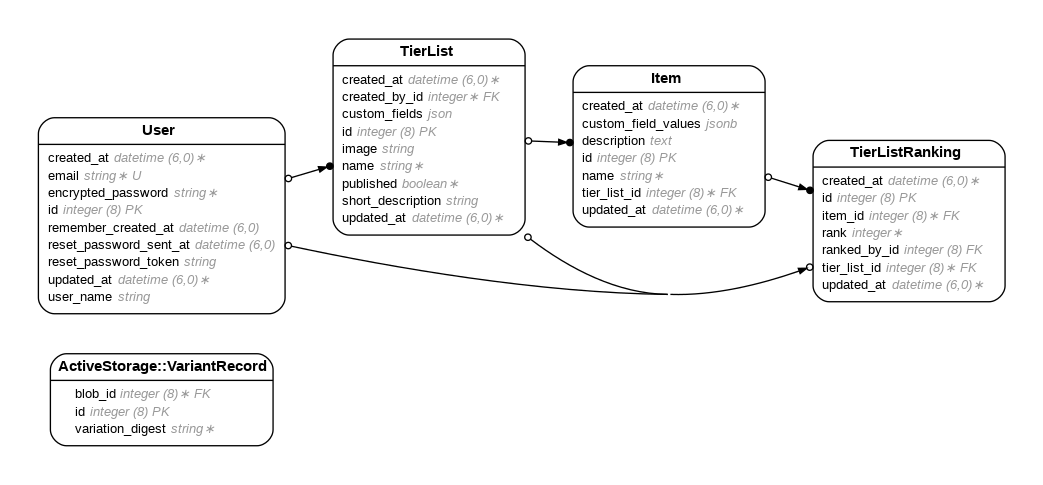
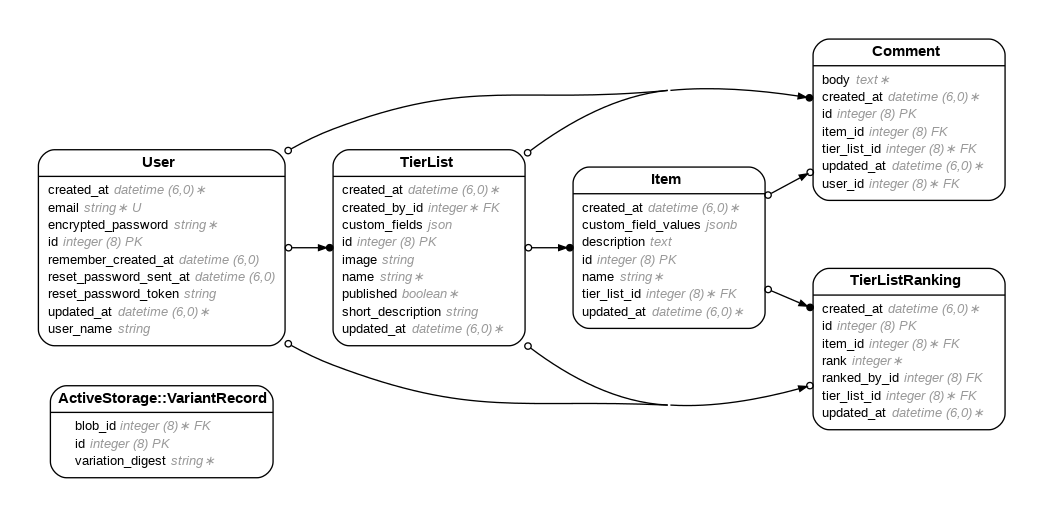
Added initial logic for the comment section

diff --git a/app/controllers/tier_lists_controller.rb b/app/controllers/tier_lists_controller.rb
@@ -27,97 +27,96 @@ class TierListsController < ApplicationController
     # Define the current item (e.g., the first ranked item for the creator)
     @current_item = @creator_ranked_items.first
 
-      # Set up Ransack for filtering
-  @q = @tier_list.items.ransack(params[:q])
-  Rails.logger.debug "Filter Params: #{params[:q].inspect}"
-  @filtered_items = @q.result # Filtered items based on query
-  Rails.logger.debug "Filtered Items: #{@filtered_items.pluck(:id)}"
-  @field_types = @tier_list.custom_fields.map { |field| [field[:name], field[:data_type]] }
-  Rails.logger.debug "Custom Fields: #{@tier_list.custom_fields.inspect}"
+    # Set up Ransack for filtering
+    @q = @tier_list.items.ransack(params[:q])
+    Rails.logger.debug "Filter Params: #{params[:q].inspect}"
+    @filtered_items = @q.result # Filtered items based on query
+    Rails.logger.debug "Filtered Items: #{@filtered_items.pluck(:id)}"
+    @field_types = @tier_list.custom_fields.map { |field| [field[:name], field[:data_type]] }
+    Rails.logger.debug "Custom Fields: #{@tier_list.custom_fields.inspect}"
 
-  # Determine which ranked items to fetch
-  if @filtered_items.present?
-    # Use filtered items if filters are applied
-    @filtered_ranked_items = generate_filtered_creator_ranked_items
-    Rails.logger.debug "Filtered Ranked Items: #{@filtered_ranked_items}"
-    @ranked_items = @filtered_ranked_items # Display only filtered ranked items
-  else
-    # Use all creator-ranked items if no filters are applied
-    @filtered_ranked_items = []
-    @ranked_items = generate_creator_ranked_items
-    Rails.logger.debug "Unfiltered Ranked Items: #{@ranked_items}"
-  end
+    # Determine which ranked items to fetch
+    if @filtered_items.present?
+      # Use filtered items if filters are applied
+      @filtered_ranked_items = generate_filtered_creator_ranked_items
+      Rails.logger.debug "Filtered Ranked Items: #{@filtered_ranked_items}"
+      @ranked_items = @filtered_ranked_items # Display only filtered ranked items
+    else
+      # Use all creator-ranked items if no filters are applied
+      @filtered_ranked_items = []
+      @ranked_items = generate_creator_ranked_items
+      Rails.logger.debug "Unfiltered Ranked Items: #{@ranked_items}"
+    end
 
     # Pass the rank-to-tier map to the view
     @rank_to_tier_map = RANK_TO_TIER_MAP
 
-      # Prepare unique values for all string custom fields
-  @string_field_options = prepare_string_field_options(@tier_list)
+    # Prepare unique values for all string custom fields
+    @string_field_options = prepare_string_field_options(@tier_list)
 
     render "tier_list_creator/creator_view"
   end
 
+  def group_list
+    @tier_list = TierList.find(params[:id])
 
-    def group_list
-      @tier_list = TierList.find(params[:id])
+    # Load comments and associated users
+    @comments = @tier_list.comments.includes(:user) 
 
-          # Count unique users who ranked the tier list
+    # Count unique users who ranked the tier list
     @user_count = @tier_list.tier_list_rankings.distinct.count(:ranked_by_id)
-    
-      # Count unique users who ranked the tier list
-      @user_count = @tier_list.tier_list_rankings.distinct.count(:ranked_by_id)
-    
-      # Fetch items with their average ranking
-      @group_ranked_items = @tier_list.items.includes(:tier_list_rankings).map do |item|
-        rankings = item.tier_list_rankings.pluck(:rank)
-        next if rankings.empty? # Skip items with no rankings
-    
-        average_rank = rankings.sum.to_f / rankings.size
-        {
-          id: item.id,
-          rank: RANK_TO_TIER_MAP[average_rank.round] || "Unranked",
-          average_rank: average_rank.round(2),
-          name: item.name || "Unknown Item",
-          image_url: item.image&.attached? ? url_for(item.image) : view_context.asset_path("egg.png"),
-          custom_fields: item.custom_field_values || {}
-        }
-      end.compact
-    
-      # Define the current item from the ActiveRecord `@tier_list.items`
-      @current_item = @filtered_items.present? ? @filtered_items.first : @tier_list.items.first
-    
-      # Set up Ransack for filtering
-      @q = @tier_list.items.ransack(params[:q])
-      Rails.logger.debug "Filter Params: #{params[:q].inspect}"
-      @filtered_items = @q.result # Filtered items based on query
-      Rails.logger.debug "Filtered Items: #{@filtered_items.pluck(:id)}"
-      @field_types = @tier_list.custom_fields.map { |field| [field[:name], field[:data_type]] }
-      Rails.logger.debug "Custom Fields: #{@tier_list.custom_fields.inspect}"
-    
-      # Determine which ranked items to fetch
-      if @filtered_items.present?
-        # Use filtered items if filters are applied
-        @filtered_ranked_items = generate_filtered_group_ranked_items
-        Rails.logger.debug "Filtered Ranked Items: #{@filtered_ranked_items}"
-        @ranked_items = @filtered_ranked_items # Display only filtered ranked items
-      else
-        # Use all group-ranked items if no filters are applied
-        @filtered_ranked_items = []
-        @ranked_items = @group_ranked_items
-        Rails.logger.debug "Unfiltered Ranked Items: #{@ranked_items}"
-      end
-    
-      # Pass the rank-to-tier map to the view
-      @rank_to_tier_map = RANK_TO_TIER_MAP
 
-        # Prepare unique values for all string custom fields
-  @string_field_options = prepare_string_field_options(@tier_list)
-    
-      render "tier_list_group/group_view"
+    # Count unique users who ranked the tier list
+    @user_count = @tier_list.tier_list_rankings.distinct.count(:ranked_by_id)
+
+    # Fetch items with their average ranking
+    @group_ranked_items = @tier_list.items.includes(:tier_list_rankings).map do |item|
+      rankings = item.tier_list_rankings.pluck(:rank)
+      next if rankings.empty? # Skip items with no rankings
+
+      average_rank = rankings.sum.to_f / rankings.size
+      {
+        id: item.id,
+        rank: RANK_TO_TIER_MAP[average_rank.round] || "Unranked",
+        average_rank: average_rank.round(2),
+        name: item.name || "Unknown Item",
+        image_url: item.image&.attached? ? url_for(item.image) : view_context.asset_path("egg.png"),
+        custom_fields: item.custom_field_values || {},
+      }
+    end.compact
+
+    # Define the current item from the ActiveRecord `@tier_list.items`
+    @current_item = @filtered_items.present? ? @filtered_items.first : @tier_list.items.first
+
+    # Set up Ransack for filtering
+    @q = @tier_list.items.ransack(params[:q])
+    Rails.logger.debug "Filter Params: #{params[:q].inspect}"
+    @filtered_items = @q.result # Filtered items based on query
+    Rails.logger.debug "Filtered Items: #{@filtered_items.pluck(:id)}"
+    @field_types = @tier_list.custom_fields.map { |field| [field[:name], field[:data_type]] }
+    Rails.logger.debug "Custom Fields: #{@tier_list.custom_fields.inspect}"
+
+    # Determine which ranked items to fetch
+    if @filtered_items.present?
+      # Use filtered items if filters are applied
+      @filtered_ranked_items = generate_filtered_group_ranked_items
+      Rails.logger.debug "Filtered Ranked Items: #{@filtered_ranked_items}"
+      @ranked_items = @filtered_ranked_items # Display only filtered ranked items
+    else
+      # Use all group-ranked items if no filters are applied
+      @filtered_ranked_items = []
+      @ranked_items = @group_ranked_items
+      Rails.logger.debug "Unfiltered Ranked Items: #{@ranked_items}"
     end
-    
-    
-    
+
+    # Pass the rank-to-tier map to the view
+    @rank_to_tier_map = RANK_TO_TIER_MAP
+
+    # Prepare unique values for all string custom fields
+    @string_field_options = prepare_string_field_options(@tier_list)
+
+    render "tier_list_group/group_view"
+  end
 
   def rank
     @tier_list = TierList.find(params[:id])
@@ -317,8 +316,6 @@ class TierListsController < ApplicationController
     end
   end
 
-
-
   def generate_filtered_creator_ranked_items
     @filtered_items.map do |item|
       Rails.logger.debug "Generating Filtered Creator Ranked Items for: #{@filtered_items.pluck(:id)}"
@@ -340,8 +337,6 @@ class TierListsController < ApplicationController
       group_data if group_data
     end.compact
   end
-
-
 end
 
 # Collect unique options for all string custom fields in the tier list

diff --git a/db/schema.rb b/db/schema.rb
@@ -10,7 +10,7 @@
 #
 # It's strongly recommended that you check this file into your version control system.
 
-ActiveRecord::Schema[7.1].define(version: 2024_12_03_154642) do
+ActiveRecord::Schema[7.1].define(version: 2024_12_08_194806) do
   # These are extensions that must be enabled in order to support this database
   enable_extension "plpgsql"
 
@@ -40,6 +40,18 @@ ActiveRecord::Schema[7.1].define(version: 2024_12_03_154642) do
     t.bigint "blob_id", null: false
     t.string "variation_digest", null: false
     t.index ["blob_id", "variation_digest"], name: "index_active_storage_variant_records_uniqueness", unique: true
+  end
+
+  create_table "comments", force: :cascade do |t|
+    t.bigint "user_id", null: false
+    t.bigint "tier_list_id", null: false
+    t.bigint "item_id"
+    t.text "body", null: false
+    t.datetime "created_at", null: false
+    t.datetime "updated_at", null: false
+    t.index ["item_id"], name: "index_comments_on_item_id"
+    t.index ["tier_list_id"], name: "index_comments_on_tier_list_id"
+    t.index ["user_id"], name: "index_comments_on_user_id"
   end
 
   create_table "items", force: :cascade do |t|
@@ -92,6 +104,9 @@ ActiveRecord::Schema[7.1].define(version: 2024_12_03_154642) do
 
   add_foreign_key "active_storage_attachments", "active_storage_blobs", column: "blob_id"
   add_foreign_key "active_storage_variant_records", "active_storage_blobs", column: "blob_id"
+  add_foreign_key "comments", "items"
+  add_foreign_key "comments", "tier_lists"
+  add_foreign_key "comments", "users"
   add_foreign_key "items", "tier_lists"
   add_foreign_key "tier_list_rankings", "items", on_delete: :cascade
   add_foreign_key "tier_list_rankings", "tier_lists", on_delete: :cascade

diff --git a/app/controllers/comments_controller.rb b/app/controllers/comments_controller.rb
@@ -1,0 +1,43 @@
+class CommentsController < ApplicationController
+  before_action :set_tier_list
+  before_action :set_comment, only: [:update, :destroy]
+
+  def create
+    @comment = @tier_list.comments.new(comment_params)
+    @comment.user = current_user
+  
+    if @comment.save
+      redirect_to request.referer || @tier_list, notice: 'Comment was successfully created.'
+    else
+      redirect_to request.referer || @tier_list, alert: 'Failed to create comment.'
+    end
+  end
+  
+  def update
+    if @comment.update(comment_params)
+      redirect_to request.referer || @tier_list, notice: 'Comment was successfully updated.'
+    else
+      flash[:alert] = 'Failed to update the comment. Please correct the errors and try again.'
+      redirect_to request.referer || @tier_list
+    end
+  end
+  
+  def destroy
+    @comment.destroy
+    redirect_to request.referer || @tier_list, notice: 'Comment was successfully deleted.'
+  end
+
+  private
+
+  def set_tier_list
+    @tier_list = TierList.find(params[:tier_list_id])
+  end
+
+  def set_comment
+    @comment = @tier_list.comments.find(params[:id])
+  end
+
+  def comment_params
+    params.require(:comment).permit(:body, :item_id)
+  end
+end

diff --git a/app/models/comment.rb b/app/models/comment.rb
@@ -1,0 +1,31 @@
+# == Schema Information
+#
+# Table name: comments
+#
+#  id           :bigint           not null, primary key
+#  body         :text             not null
+#  created_at   :datetime         not null
+#  updated_at   :datetime         not null
+#  item_id      :bigint
+#  tier_list_id :bigint           not null
+#  user_id      :bigint           not null
+#
+# Indexes
+#
+#  index_comments_on_item_id       (item_id)
+#  index_comments_on_tier_list_id  (tier_list_id)
+#  index_comments_on_user_id       (user_id)
+#
+# Foreign Keys
+#
+#  fk_rails_...  (item_id => items.id)
+#  fk_rails_...  (tier_list_id => tier_lists.id)
+#  fk_rails_...  (user_id => users.id)
+#
+class Comment < ApplicationRecord
+  belongs_to :user
+  belongs_to :tier_list
+  belongs_to :item, optional: true # Optional association
+
+  validates :body, presence: true
+end

diff --git a/db/migrate/20241208194806_create_comments.rb b/db/migrate/20241208194806_create_comments.rb
@@ -1,0 +1,12 @@
+class CreateComments < ActiveRecord::Migration[7.1]
+ def change
+    create_table :comments do |t|
+      t.references :user, null: false, foreign_key: true
+      t.references :tier_list, null: false, foreign_key: true
+      t.references :item, foreign_key: true
+      t.text :body, null: false
+    
+      t.timestamps
+    end
+  end
+end

diff --git a/app/models/tier_list.rb b/app/models/tier_list.rb
@@ -27,6 +27,7 @@ class TierList < ApplicationRecord
   has_one_attached :image
   has_many :tier_list_rankings, dependent: :destroy
   has_many :items
+  has_many :comments, dependent: :destroy # Comments linked to a TierList are removed if it’s deleted
 
   def custom_fields_with_types
     # Ensure `custom_fields` is present and is an array

diff --git a/app/models/user.rb b/app/models/user.rb
@@ -25,5 +25,6 @@ class User < ApplicationRecord
 
   has_many :tier_list_rankings, foreign_key: 'ranked_by_id', dependent: :nullify
   has_many :tier_lists, foreign_key: 'created_by_id', dependent: :nullify
+  has_many :comments, dependent: :nullify # Comments persist even if user is deleted
 
 end

diff --git a/app/models/item.rb b/app/models/item.rb
@@ -22,6 +22,7 @@ class Item < ApplicationRecord
   belongs_to :tier_list
   has_one_attached :image
   has_many :tier_list_rankings, dependent: :destroy
+  has_many :comments, dependent: :destroy # Optional, depending on how you want to handle item deletion
 
   validates :name, presence: true
 

diff --git a/config/routes.rb b/config/routes.rb
@@ -8,6 +8,8 @@ Rails.application.routes.draw do
       end
     end
 
+    resources :comments, only: [:create, :edit, :update, :destroy]
+    
     resources :tier_list_rankings, only: [:create]
 
     member do
